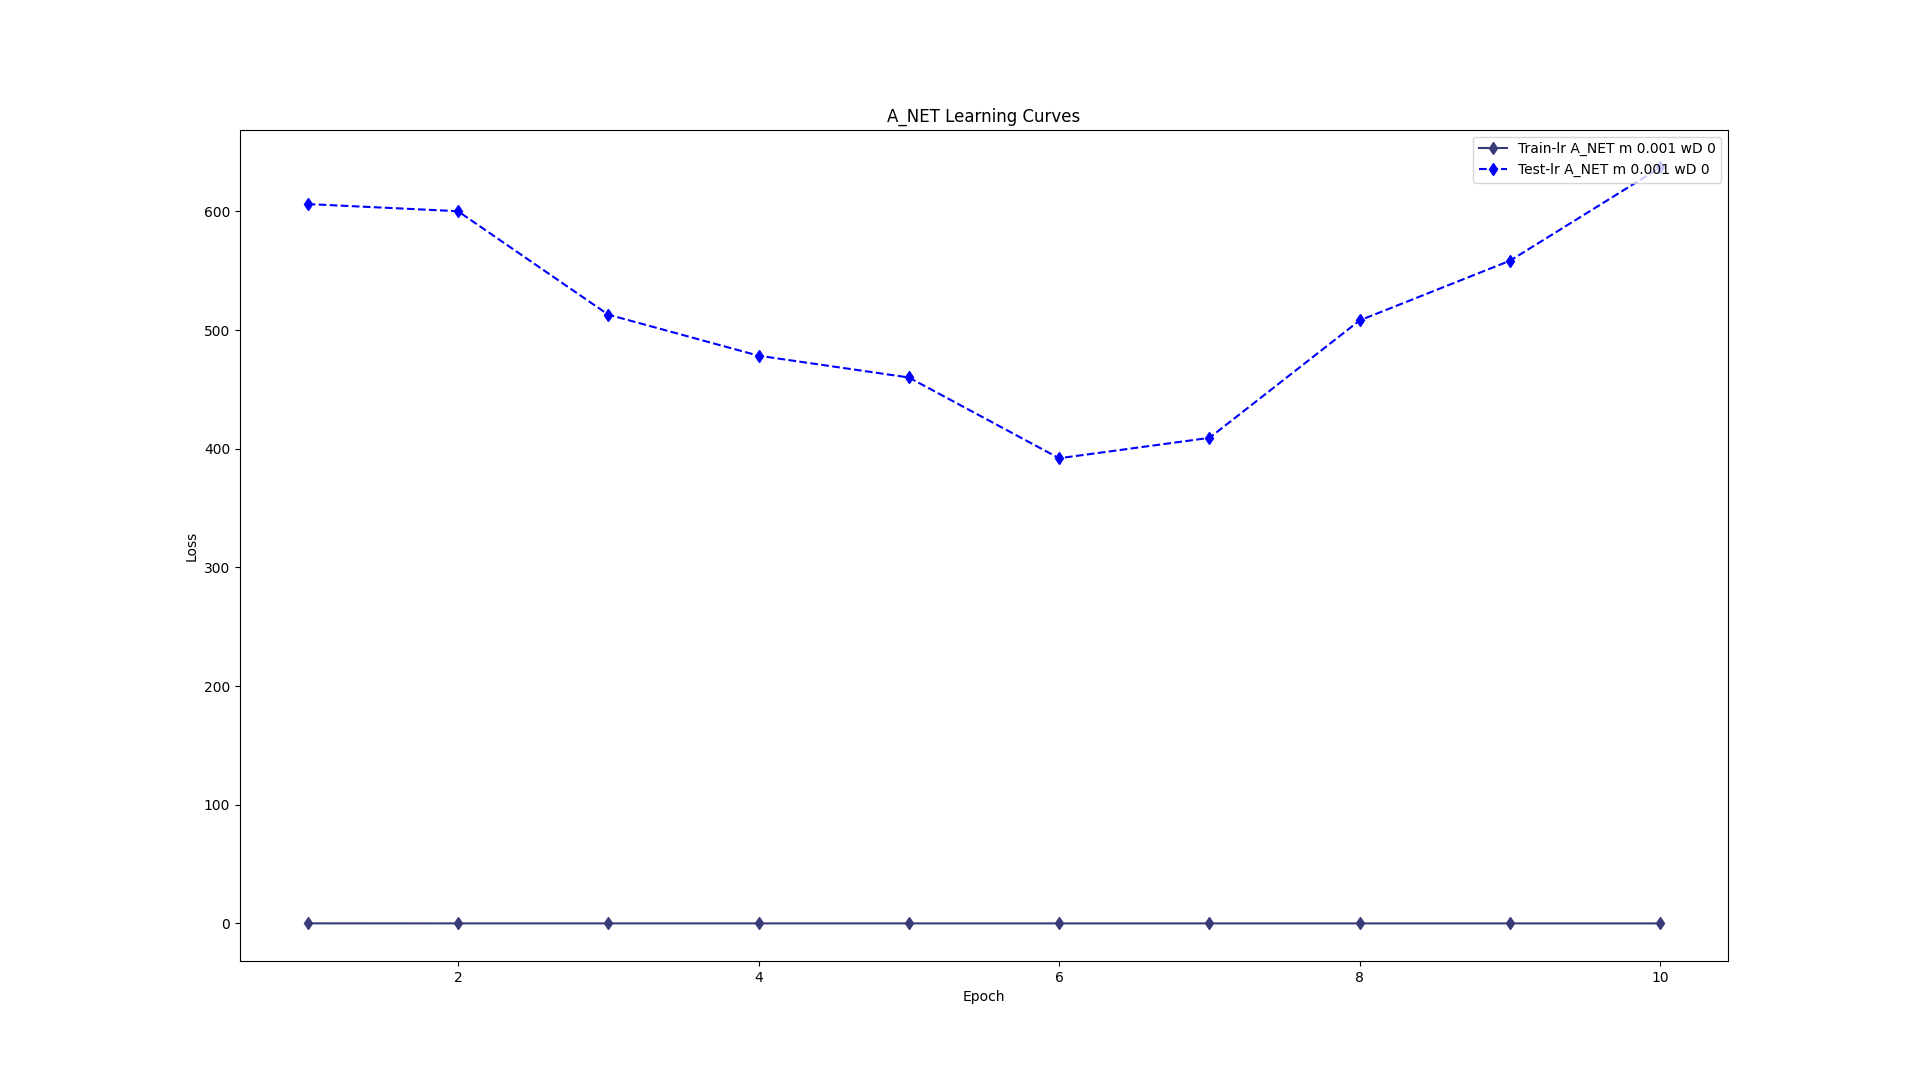
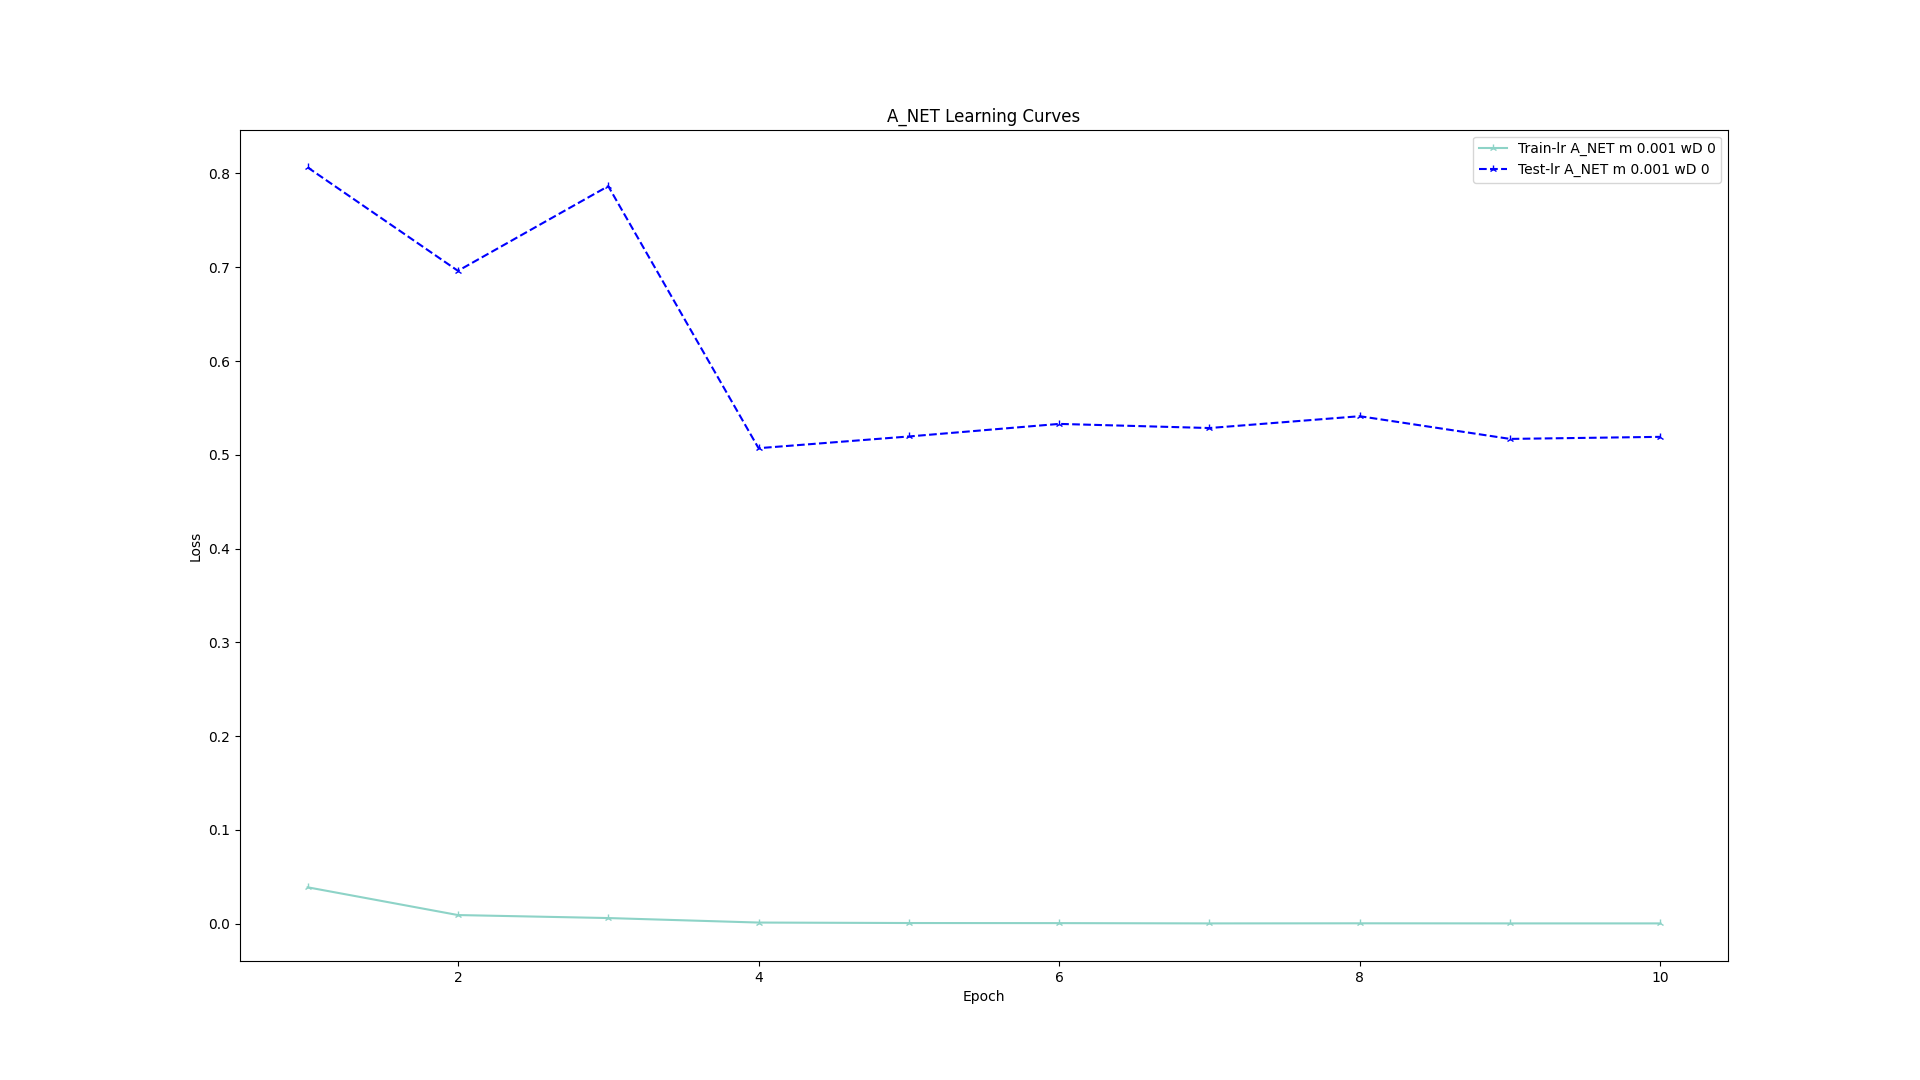
Morningresults

diff --git a/Project/trainer.py b/Project/trainer.py
@@ -133,7 +133,7 @@ def test_classifier(model, testLoader, device, lossFn, **kwargs):
     acc = true/len(testLoader.dataset)
     model.history[cidx.testAcc].append(acc)
     model.history[cidx.testAcc5].append(acc) 
-    model.history[cidx.testLoss].append(loss/idx 
+    model.history[cidx.testLoss].append(loss/idx)
     # Print accuracy report!
     print("Accuracy: {} ({} / {})".format(acc, true,
                                           len(testLoader.dataset)))
